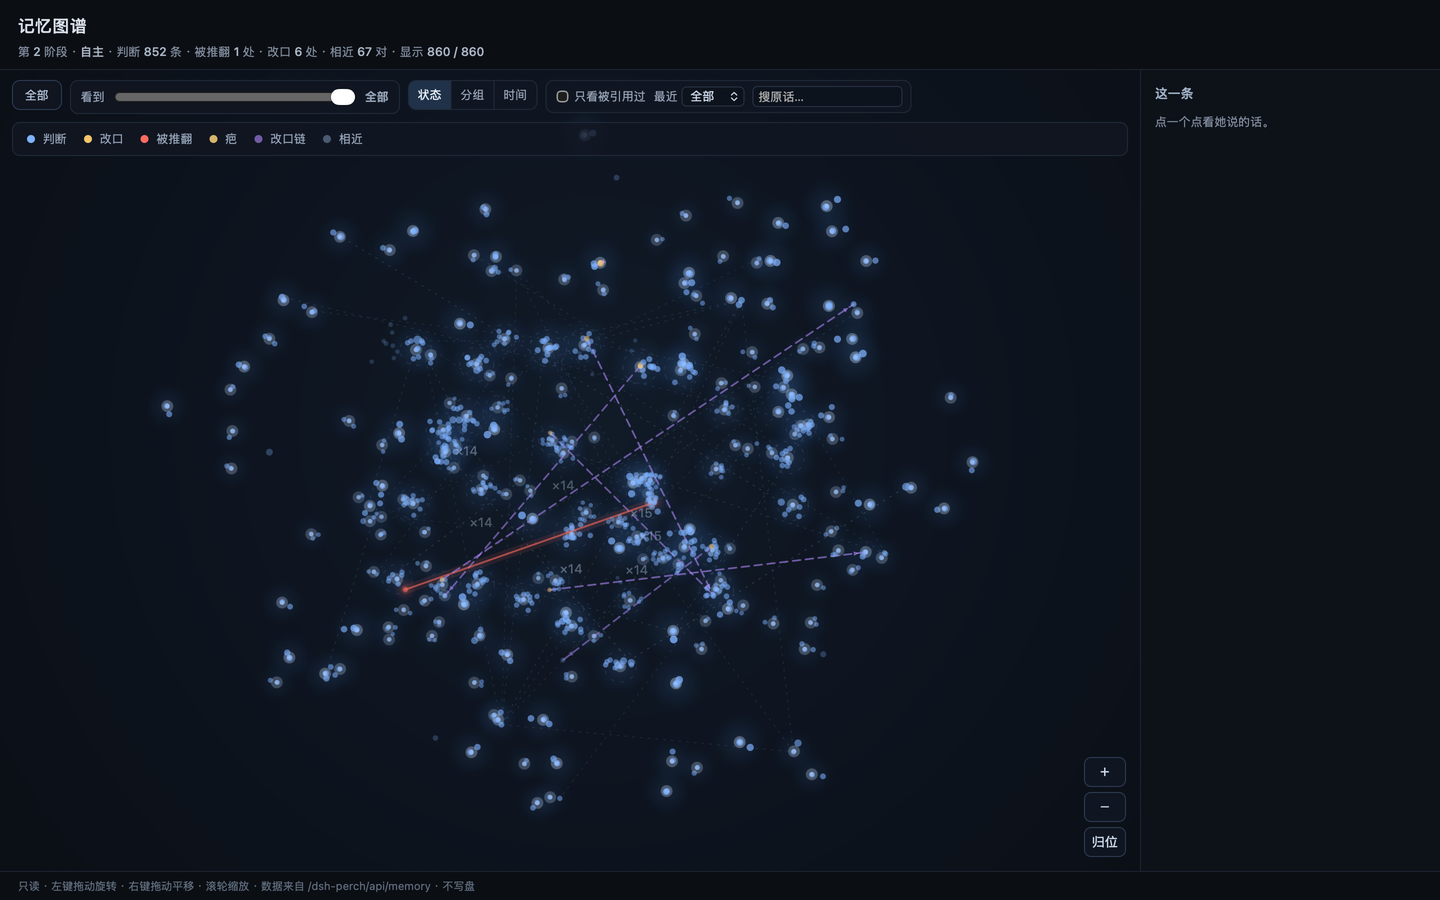
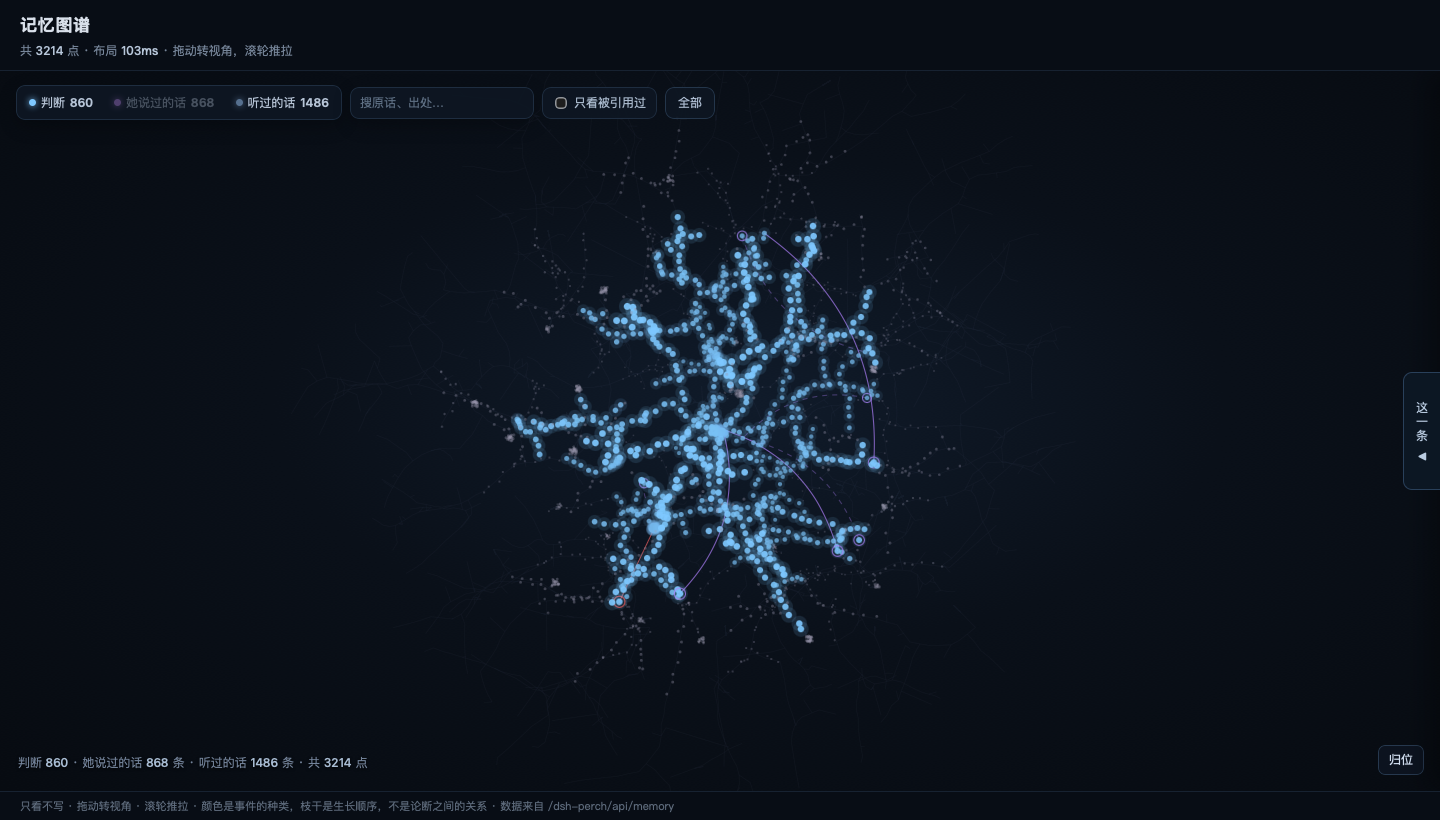
docs(README/CHANGELOG): 首图换成 3D 记忆图谱，补 0.2.1 条目

diff --git a/CHANGELOG.md b/CHANGELOG.md
@@ -4,7 +4,8 @@
 
 ### 新增
 
-- 记忆图谱换成「神经生长」：枝干按时空顺序从中心长出去，节点按事件种类上色——青蓝是判断、品红是她说过的话、暗青灰是听过的话，疤是暖白、改口带紫环、被推翻带红环、改口链是一道亮紫弧。没有同心圆、没有按天分环。
+- 记忆图谱换成**真 3D**：空间殖民从中心长枝，四元数轨道球可以任意转（滚轮推到 DIST=70，Shift 拖动平移），节点按事件种类上色——青蓝是判断、品红是她说过的话、暗青灰是听过的话，疤是暖白、改口带紫环、被推翻带红环、改口链是一道亮紫弧。没有同心圆、没有按天分环。
+- 说过的话可单独一层：默认关，点开才把 868 句原话铺上来（其中 852 句贴在对应判断旁边，按 `saidOf` 错开 8px）。
 - 图谱能翻三层了：`/api/memory` 多了 `kinds` 参数（`belief,utterance,heard` 逗号分隔），`meta.counts` 报整层真数。同一个事件已经长成判断的，不再重复画点——真账本 868 句原话里 852 句已是判断，图上剩 16 句，HUD 写成「她说过的话 868 条（图上 16 句，其余已长成判断）」。
 - 侧栏可收缩：默认只在右边留一条「这一条 ◀」，点开 340px；820px 以下改底部半屏。点节点看原话/时间/出处，改过口的那条两侧都能看到「她改过这里」。
 - 验收工装 `tools/acceptance-memory.mjs`：三种 kinds、布局确定性、关掉 heard 后判断坐标不变、布局+首帧 < 1s、全量回归不增红，五项一次跑完。

diff --git a/README.md b/README.md
@@ -54,7 +54,7 @@
 
 <img src="docs/screenshots/memory-graph.png" alt="记忆图谱" width="880">
 
-<sub>记忆图谱：她记下的 860 条判断摊在一张图上。改口 6 处（紫虚线指向新说法）、被推翻 1 处、疤点着不退；点一下看原话。数据只读账本，不写盘。</sub>
+<sub>记忆图谱：她记下的 860 条判断长成一团枝杈，能拖着转、滚轮推到单条点。颜色只说「这是什么」——青蓝是判断、品红是她说过的话、灰是听过的话；改口 6 处是指向新说法的紫弧、被推翻 1 处是红线、疤点着暖白不退。数据只读账本，不写盘。</sub>
 
 <img src="docs/screenshots/today2.png" alt="今天变了什么" width="720">
 
